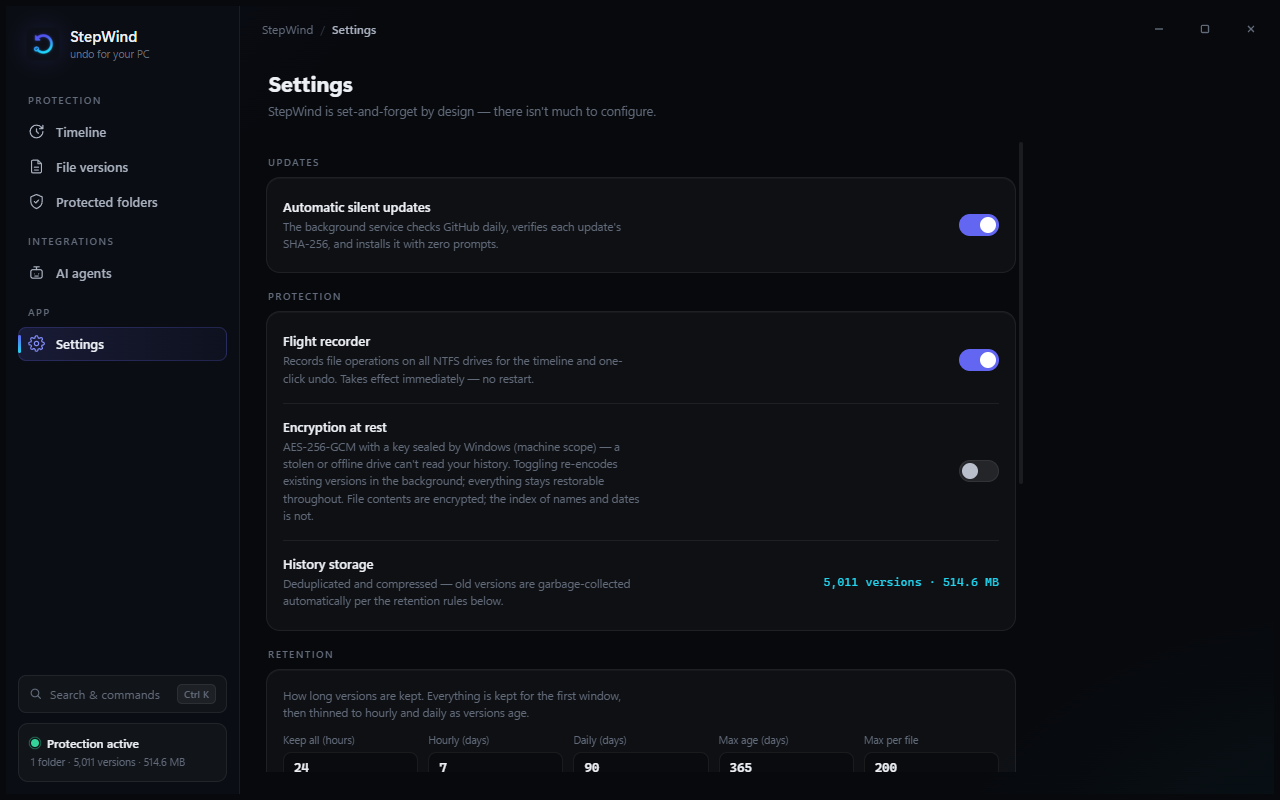
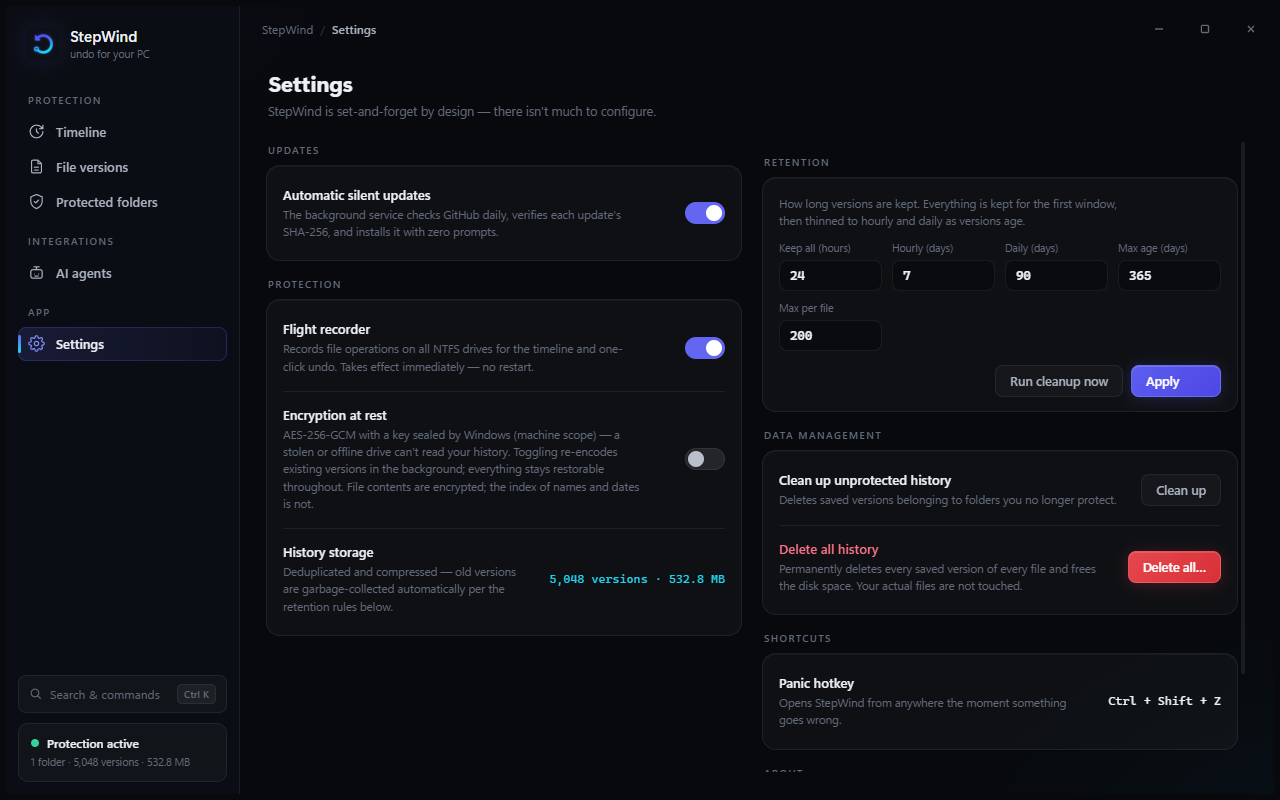
Settings: use the full width (two-column masonry) like every other tab
Settings was capped at 760px, leaving the right half blank while every other
tab fills the width. Each label+card is now a break-inside:avoid .set-section
flowing in a two-column layout (.set-cols does the columns; .set-scroll only
scrolls — a height-constrained flex item that both scrolls and has column-count
collapses to one column) that drops to one column under 900px. Retention fields
use auto-fit so they wrap instead of squashing in the narrower column.

Also made the screenshot harness capture reliably: SetWindowPos(HWND_TOPMOST)
instead of SetForegroundWindow (which silently fails when another app owns the
foreground and grabbed the wrong window), and an -Exe param.

diff --git a/src/StepWind.App/web/app.js b/src/StepWind.App/web/app.js
@@ -832,82 +832,96 @@ async function loadSettings() {
       </div>
     </div>
     <div class="set-scroll">
-      <div class="set-label">Updates</div>
-      <div class="card set-card"><div class="set-row">
-        <div><div class="set-title">Automatic silent updates</div>
-        <div class="set-sub">The background service checks GitHub daily, verifies each update's SHA-256, and installs it with zero prompts.</div></div>
-        ${sw("sw-update", s?.AutoUpdateEnabled)}
-      </div></div>
+     <div class="set-cols">
+      <div class="set-section">
+        <div class="set-label">Updates</div>
+        <div class="card set-card"><div class="set-row">
+          <div><div class="set-title">Automatic silent updates</div>
+          <div class="set-sub">The background service checks GitHub daily, verifies each update's SHA-256, and installs it with zero prompts.</div></div>
+          ${sw("sw-update", s?.AutoUpdateEnabled)}
+        </div></div>
+      </div>
 
-      <div class="set-label">Protection</div>
-      <div class="card set-card">
-        <div class="set-row">
-          <div><div class="set-title">Flight recorder</div>
-          <div class="set-sub">Records file operations on all NTFS drives for the timeline and one-click undo. Takes effect immediately — no restart.</div></div>
-          ${sw("sw-fr", s?.FlightRecorderEnabled)}
-        </div>
-        <div class="set-row">
-          <div><div class="set-title">Encryption at rest</div>
-          <div class="set-sub">AES-256-GCM with a key sealed by Windows (machine scope) — a stolen or offline drive can't read your history. Toggling re-encodes existing versions in the background; everything stays restorable throughout. File contents are encrypted; the index of names and dates is not.</div>
-          ${lastStatus?.ReEncoding ? '<div class="badge-live">Re-encoding your history in the background…</div>' : ""}</div>
-          ${sw("sw-enc", s?.EncryptionEnabled)}
-        </div>
-        <div class="set-row">
-          <div><div class="set-title">History storage</div>
-          <div class="set-sub">Deduplicated and compressed — old versions are garbage-collected automatically per the retention rules below.</div></div>
-          <div class="set-value">${lastStatus ? `${(lastStatus.TotalVersions ?? 0).toLocaleString()} versions · ${fmtSize(lastStatus.StoreBytes)}` : "—"}</div>
+      <div class="set-section">
+        <div class="set-label">Protection</div>
+        <div class="card set-card">
+          <div class="set-row">
+            <div><div class="set-title">Flight recorder</div>
+            <div class="set-sub">Records file operations on all NTFS drives for the timeline and one-click undo. Takes effect immediately — no restart.</div></div>
+            ${sw("sw-fr", s?.FlightRecorderEnabled)}
+          </div>
+          <div class="set-row">
+            <div><div class="set-title">Encryption at rest</div>
+            <div class="set-sub">AES-256-GCM with a key sealed by Windows (machine scope) — a stolen or offline drive can't read your history. Toggling re-encodes existing versions in the background; everything stays restorable throughout. File contents are encrypted; the index of names and dates is not.</div>
+            ${lastStatus?.ReEncoding ? '<div class="badge-live">Re-encoding your history in the background…</div>' : ""}</div>
+            ${sw("sw-enc", s?.EncryptionEnabled)}
+          </div>
+          <div class="set-row">
+            <div><div class="set-title">History storage</div>
+            <div class="set-sub">Deduplicated and compressed — old versions are garbage-collected automatically per the retention rules below.</div></div>
+            <div class="set-value">${lastStatus ? `${(lastStatus.TotalVersions ?? 0).toLocaleString()} versions · ${fmtSize(lastStatus.StoreBytes)}` : "—"}</div>
+          </div>
         </div>
       </div>
 
-      <div class="set-label">Retention</div>
-      <div class="card set-card">
-        <div class="set-sub">How long versions are kept. Everything is kept for the first window, then thinned to hourly and daily as versions age.</div>
-        <div class="ret-grid">
-          ${[["ret-kah", "Keep all (hours)", s?.RetentionKeepAllHours],
-             ["ret-hd", "Hourly (days)", s?.RetentionHourlyDays],
-             ["ret-dd", "Daily (days)", s?.RetentionDailyDays],
-             ["ret-mad", "Max age (days)", s?.RetentionMaxAgeDays],
-             ["ret-mv", "Max per file", s?.RetentionMaxVersionsPerFile]]
-            .map(([id, label, val]) => `
-              <div class="ret-cell"><label for="${id}">${label}</label>
-              <input id="${id}" type="number" min="0" value="${val ?? ""}"/></div>`).join("")}
-        </div>
-        <div class="set-actions">
-          <button class="btn" id="ret-run" title="Apply the retention rules immediately instead of waiting for the daily pass">Run cleanup now</button>
-          <button class="btn primary" id="ret-apply" style="min-width:90px">Apply</button>
-        </div>
-      </div>
-
-      <div class="set-label">Data management</div>
-      <div class="card set-card">
-        <div class="set-row">
-          <div><div class="set-title">Clean up unprotected history</div>
-          <div class="set-sub">Deletes saved versions belonging to folders you no longer protect.</div></div>
-          <button class="btn" id="dm-unprot" style="margin-left:auto;flex-shrink:0">Clean up</button>
-        </div>
-        <div class="set-row">
-          <div><div class="set-title" style="color:var(--danger)">Delete all history</div>
-          <div class="set-sub">Permanently deletes every saved version of every file and frees the disk space. Your actual files are not touched.</div></div>
-          <button class="btn danger" id="dm-all" style="margin-left:auto;flex-shrink:0">Delete all…</button>
+      <div class="set-section">
+        <div class="set-label">Retention</div>
+        <div class="card set-card">
+          <div class="set-sub">How long versions are kept. Everything is kept for the first window, then thinned to hourly and daily as versions age.</div>
+          <div class="ret-grid">
+            ${[["ret-kah", "Keep all (hours)", s?.RetentionKeepAllHours],
+               ["ret-hd", "Hourly (days)", s?.RetentionHourlyDays],
+               ["ret-dd", "Daily (days)", s?.RetentionDailyDays],
+               ["ret-mad", "Max age (days)", s?.RetentionMaxAgeDays],
+               ["ret-mv", "Max per file", s?.RetentionMaxVersionsPerFile]]
+              .map(([id, label, val]) => `
+                <div class="ret-cell"><label for="${id}">${label}</label>
+                <input id="${id}" type="number" min="0" value="${val ?? ""}"/></div>`).join("")}
+          </div>
+          <div class="set-actions">
+            <button class="btn" id="ret-run" title="Apply the retention rules immediately instead of waiting for the daily pass">Run cleanup now</button>
+            <button class="btn primary" id="ret-apply" style="min-width:90px">Apply</button>
+          </div>
         </div>
       </div>
 
-      <div class="set-label">Shortcuts</div>
-      <div class="card set-card"><div class="set-row">
-        <div><div class="set-title">Panic hotkey</div>
-        <div class="set-sub">Opens StepWind from anywhere the moment something goes wrong.</div></div>
-        <div class="set-value" style="color:var(--text)">Ctrl + Shift + Z</div>
-      </div></div>
-
-      <div class="set-label">About</div>
-      <div class="card set-card" style="margin-bottom:8px"><div class="set-row">
-        <div><div class="set-title">StepWind <span id="ab-ver" style="color:var(--text-3);font-weight:400"></span></div>
-        <div class="set-sub">Free · open source · 100% local · no cloud · no account · no telemetry</div></div>
-        <div style="margin-left:auto;display:flex;gap:8px;flex-shrink:0">
-          <button class="btn" id="ab-site">stepwind.app</button>
-          <button class="btn" id="ab-repo">GitHub</button>
+      <div class="set-section">
+        <div class="set-label">Data management</div>
+        <div class="card set-card">
+          <div class="set-row">
+            <div><div class="set-title">Clean up unprotected history</div>
+            <div class="set-sub">Deletes saved versions belonging to folders you no longer protect.</div></div>
+            <button class="btn" id="dm-unprot" style="margin-left:auto;flex-shrink:0">Clean up</button>
+          </div>
+          <div class="set-row">
+            <div><div class="set-title" style="color:var(--danger)">Delete all history</div>
+            <div class="set-sub">Permanently deletes every saved version of every file and frees the disk space. Your actual files are not touched.</div></div>
+            <button class="btn danger" id="dm-all" style="margin-left:auto;flex-shrink:0">Delete all…</button>
+          </div>
         </div>
-      </div></div>
+      </div>
+
+      <div class="set-section">
+        <div class="set-label">Shortcuts</div>
+        <div class="card set-card"><div class="set-row">
+          <div><div class="set-title">Panic hotkey</div>
+          <div class="set-sub">Opens StepWind from anywhere the moment something goes wrong.</div></div>
+          <div class="set-value" style="color:var(--text)">Ctrl + Shift + Z</div>
+        </div></div>
+      </div>
+
+      <div class="set-section">
+        <div class="set-label">About</div>
+        <div class="card set-card" style="margin-bottom:8px"><div class="set-row">
+          <div><div class="set-title">StepWind <span id="ab-ver" style="color:var(--text-3);font-weight:400"></span></div>
+          <div class="set-sub">Free · open source · 100% local · no cloud · no account · no telemetry</div></div>
+          <div style="margin-left:auto;display:flex;gap:8px;flex-shrink:0">
+            <button class="btn" id="ab-site">stepwind.app</button>
+            <button class="btn" id="ab-repo">GitHub</button>
+          </div>
+        </div></div>
+      </div>
+     </div>
     </div>`;
 
   call("appInfo").then((info) => { const el = $("#ab-ver"); if (el) el.textContent = "v" + info.version; });

diff --git a/src/StepWind.App/web/styles.css b/src/StepWind.App/web/styles.css
@@ -431,7 +431,17 @@ body {
 
 /* ═══════════════ Settings ═══════════════ */
 
-.set-scroll { flex: 1; min-height: 0; overflow-y: auto; overflow-x: hidden; scrollbar-gutter: stable; max-width: 760px; }
+/* Settings uses the full width like every other tab (it was capped at 760px, wasting the
+   right half). The SCROLLER and the MULTICOL must be different elements: a height-constrained
+   flex item that both scrolls AND has column-count collapses back to one column, so .set-scroll
+   only scrolls and the inner .set-cols does the two-column masonry (auto height). Each
+   label+card is a .set-section that never splits across a column; columns collapse to one on a
+   narrow window. */
+.set-scroll { flex: 1; min-height: 0; overflow-y: auto; overflow-x: hidden; scrollbar-gutter: stable; }
+.set-cols { column-count: 2; column-gap: 20px; }
+.set-section { break-inside: avoid; display: block; }
+.set-section:first-child .set-label { padding-top: 4px; }
+@media (max-width: 900px) { .set-cols { column-count: 1; } }
 .set-label { font-size: 10px; font-weight: 600; letter-spacing: 1.4px; text-transform: uppercase; color: var(--text-3); padding: 16px 2px 8px; }
 .set-card { padding: 14px 16px; }
 .set-row { display: flex; align-items: center; gap: 16px; padding: 6px 0; }
@@ -508,7 +518,9 @@ body {
 .btn.danger:hover { filter: brightness(1.1); }
 
 /* Retention inputs */
-.ret-grid { display: grid; grid-template-columns: repeat(5, 1fr); gap: 10px; margin-top: 12px; }
+/* auto-fit so the five fields sit in a row at full width but wrap gracefully in the narrower
+   two-column Settings layout instead of squashing. */
+.ret-grid { display: grid; grid-template-columns: repeat(auto-fit, minmax(84px, 1fr)); gap: 10px; margin-top: 12px; }
 .ret-cell label { display: block; font-size: 10.5px; color: var(--text-3); margin-bottom: 5px; }
 .ret-cell input {
   width: 100%; padding: 7px 10px; border-radius: var(--r-sm);